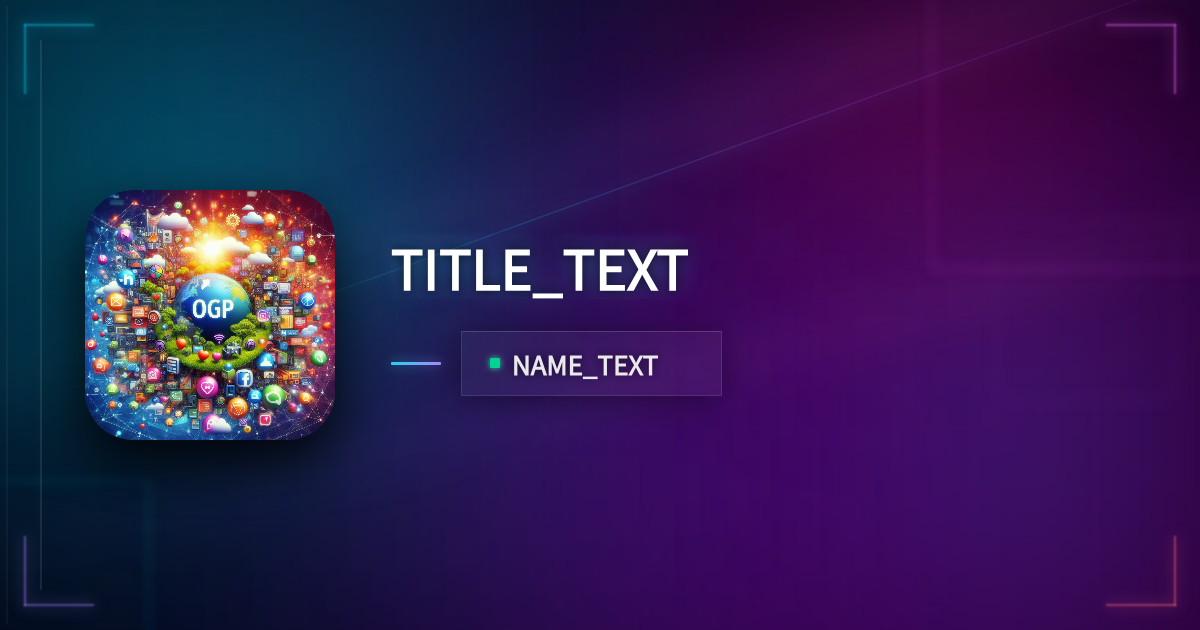
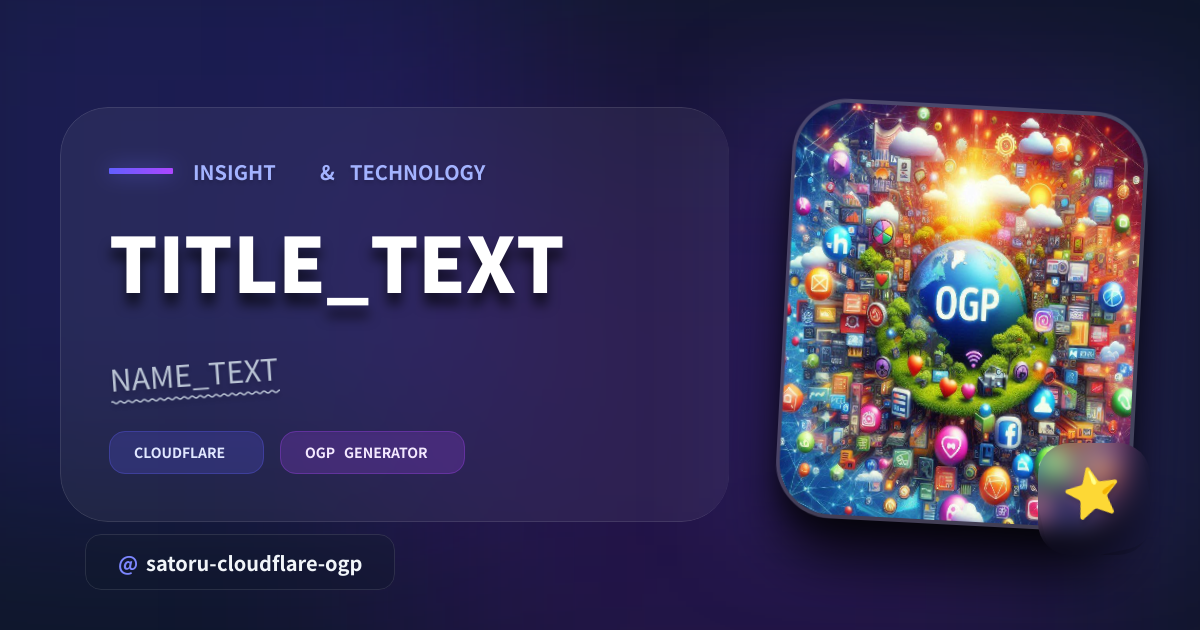
feat: implement Deno server for dynamic OGP image generation using satoru-render

diff --git a/src/main.tsx b/src/main.tsx
@@ -23,235 +23,89 @@ Deno.serve(async (request) => {
   }
 
   const html = toHtml(
-    <html className="bg-[#020010]">
-      <body className="w-full h-full flex items-center justify-center p-0 m-0 bg-[#020010]">
-        <div className="w-[1200px] h-[630px] flex relative bg-[#020010] text-white overflow-hidden font-['Noto_Sans_JP']">
+    <html className="m-0 p-0">
+      <head>
+        <link
+          href="https://fonts.googleapis.com/css2?family=Noto+Sans+JP:wght@100..900&display=swap"
+          rel="stylesheet"
+        />
+      </head>
+      <body className="m-0 p-0 font-sans">
+        <style>
+          {`
+          body {
+            font-family: 'Noto Sans JP', 'emoji';
+          }
+          `}
+        </style>
+        <div className="relative flex h-157.5 w-300 overflow-hidden bg-[#0f172a]">
+          {/* Background Decorative Elements with Glow */}
+          <div className="absolute -left-25 -top-25 flex size-150 rounded-full bg-indigo-600/20 blur-[100px]" />
+          <div className="absolute -bottom-37.5 right-25 flex size-175 rounded-full bg-purple-600/15 blur-[120px]" />
 
-          {/* ============================================================ */}
-          {/* LAYER 1: Deep Background Blur Orbs      */}
-          {/* ============================================================ */}
-          <div className="absolute -top-[200px] -left-[200px] w-[700px] h-[700px] rounded-full bg-cyan-500/30 blur-[200px]" />
-          <div className="absolute -bottom-[200px] -right-[150px] w-[800px] h-[800px] rounded-full bg-fuchsia-600/35 blur-[220px]" />
-          <div className="absolute top-[30%] left-[35%] w-[500px] h-[500px] rounded-full bg-violet-700/25 blur-[250px]" />
-
-          {/* ============================================================ */}
-          {/* LAYER 2: Mid-level Blur Shapes              */}
-          {/* ============================================================ */}
-          {/* Cyan glow bloom - left side */}
-          <div className="absolute top-[10%] left-[5%] w-[350px] h-[250px] rounded-full bg-cyan-400/20 blur-[100px]" />
-          {/* Rose glow bloom - top right */}
-          <div className="absolute -top-[40px] right-[10%] w-[300px] h-[300px] rounded-full bg-rose-500/18 blur-[120px]" />
-          {/* Indigo accent bloom - center bottom */}
-          <div className="absolute bottom-[5%] left-[30%] w-[400px] h-[200px] rounded-full bg-indigo-500/15 blur-[130px]" />
-          {/* Sky accent - right center */}
-          <div className="absolute top-[40%] right-[5%] w-[250px] h-[350px] rounded-full bg-sky-400/12 blur-[110px]" />
-
-          {/* ============================================================ */}
-          {/* LAYER 3: Blurred Light Streaks     */}
-          {/* ============================================================ */}
-          {/* Primary wide blurred streak */}
-          <div
-            className="absolute top-[15%] -left-[300px] w-[2000px] h-[60px] opacity-[0.08] blur-[30px]"
-            style={{
-              background: "linear-gradient(90deg, transparent, #22d3ee, #a78bfa, #e879f9, transparent)",
-              transform: "rotate(-20deg)",
-            }}
-          />
-          {/* Secondary thin blurred streak */}
-          <div
-            className="absolute top-[55%] -left-[200px] w-[1800px] h-[40px] opacity-[0.06] blur-[25px]"
-            style={{
-              background: "linear-gradient(90deg, transparent, #818cf8, #f472b6, transparent)",
-              transform: "rotate(-15deg)",
-            }}
-          />
-          {/* Accent sharp streak with blur halo */}
-          <div
-            className="absolute top-[25%] -left-[200px] w-[1800px] h-[2px] opacity-[0.15]"
-            style={{
-              background: "linear-gradient(90deg, transparent 10%, #22d3ee 40%, #a855f7 60%, transparent 90%)",
-              transform: "rotate(-20deg)",
-            }}
-          />
-          {/* Blur halo behind the sharp streak */}
-          <div
-            className="absolute top-[25%] -left-[200px] w-[1800px] h-[2px] opacity-[0.25] blur-[8px]"
-            style={{
-              background: "linear-gradient(90deg, transparent 10%, #22d3ee 40%, #a855f7 60%, transparent 90%)",
-              transform: "rotate(-20deg)",
-            }}
-          />
-
-          {/* ============================================================ */}
-          {/* LAYER 4: Blurred Ring Decorations            */}
-          {/* ============================================================ */}
-          {/* Large blurred ring - top right */}
-          <div className="absolute -top-[80px] -right-[80px] w-[350px] h-[350px] rounded-full border-[3px] border-fuchsia-400/20 blur-[6px]" />
-          <div className="absolute -top-[80px] -right-[80px] w-[350px] h-[350px] rounded-full border-[1px] border-fuchsia-400/10 blur-[15px]" />
-          {/* Small blurred ring - bottom left */}
-          <div className="absolute -bottom-[50px] -left-[50px] w-[200px] h-[200px] rounded-full border-[2px] border-cyan-400/20 blur-[5px]" />
-          <div className="absolute -bottom-[50px] -left-[50px] w-[200px] h-[200px] rounded-full border-[1px] border-cyan-400/15 blur-[12px]" />
-          {/* Medium blurred ring - center right */}
-          <div className="absolute top-[35%] right-[2%] w-[180px] h-[180px] rounded-full border-[2px] border-violet-400/15 blur-[8px]" />
-
-          {/* ============================================================ */}
-          {/* LAYER 5: Dot Grid with slight blur                          */}
-          {/* ============================================================ */}
-          <div
-            className="absolute inset-0 opacity-[0.05] blur-[0.5px]"
-            style={{
-              backgroundImage:
-                "radial-gradient(circle, #ffffff 1px, transparent 1px)",
-              backgroundSize: "36px 36px",
-            }}
-          />
-
-          {/* ============================================================ */}
-          {/* LAYER 6: Corner Accent                  */}
-          {/* ============================================================ */}
-          {/* Top-left */}
-          <div className="absolute top-[24px] left-[24px] w-[70px] h-[2px] bg-cyan-400/50 blur-[1px] shadow-[0_0_15px_rgba(34,211,238,0.6)]" />
-          <div className="absolute top-[24px] left-[24px] w-[2px] h-[70px] bg-cyan-400/50 blur-[1px] shadow-[0_0_15px_rgba(34,211,238,0.6)]" />
-          {/* Top-right */}
-          <div className="absolute top-[24px] right-[24px] w-[70px] h-[2px] bg-fuchsia-400/50 blur-[1px] shadow-[0_0_15px_rgba(232,121,249,0.6)]" />
-          <div className="absolute top-[24px] right-[24px] w-[2px] h-[70px] bg-fuchsia-400/50 blur-[1px] shadow-[0_0_15px_rgba(232,121,249,0.6)]" />
-          {/* Bottom-left */}
-          <div className="absolute bottom-[24px] left-[24px] w-[70px] h-[2px] bg-violet-400/50 blur-[1px] shadow-[0_0_15px_rgba(167,139,250,0.6)]" />
-          <div className="absolute bottom-[24px] left-[24px] w-[2px] h-[70px] bg-violet-400/50 blur-[1px] shadow-[0_0_15px_rgba(167,139,250,0.6)]" />
-          {/* Bottom-right */}
-          <div className="absolute bottom-[24px] right-[24px] w-[70px] h-[2px] bg-rose-400/50 blur-[1px] shadow-[0_0_15px_rgba(251,113,133,0.6)]" />
-          <div className="absolute bottom-[24px] right-[24px] w-[2px] h-[70px] bg-rose-400/50 blur-[1px] shadow-[0_0_15px_rgba(251,113,133,0.6)]" />
-
-          {/* ============================================================ */}
-          {/* LAYER 7: Frosted Glass Content Panel                        */}
-          {/* ============================================================ */}
-          <div className="absolute inset-[40px] rounded-[24px] bg-white/[0.03] border border-white/[0.06] z-[5]" />
-          {/* Inner glass panel blurred edge glow */}
-          <div className="absolute inset-[38px] rounded-[26px] border border-white/[0.04] blur-[3px] z-[4]" />
-
-          {/* ============================================================ */}
-          {/* MAIN CONTENT                                                 */}
-          {/* ============================================================ */}
-          <div className="flex flex-col justify-center w-full h-full px-[85px] py-20 z-10">
-            <div className="flex items-center gap-14">
-              {/* Image / Avatar Section */}
-              {image && (
-                <div className="shrink-0">
-                  <div className="relative">
-                    {/* Avatar mega blur glow (outermost) */}
-                    <div className="absolute -inset-[30px] rounded-full bg-cyan-500/15 blur-[50px]" />
-                    <div className="absolute -inset-[20px] rounded-full bg-fuchsia-500/12 blur-[40px]" />
-                    {/* Avatar gradient blur ring */}
-                    <div className="absolute -inset-[8px] rounded-[54px] bg-gradient-to-br from-cyan-400 via-violet-500 to-fuchsia-500 opacity-50 blur-[18px]" />
-                    {/* Avatar sharp gradient border */}
-                    <div className="absolute -inset-[3px] rounded-[50px] bg-gradient-to-br from-cyan-400 via-violet-500 to-fuchsia-500 opacity-80" />
-                    {/* Subtle blur haze on border */}
-                    <div className="absolute -inset-[3px] rounded-[50px] bg-gradient-to-br from-cyan-400 via-violet-500 to-fuchsia-500 opacity-30 blur-[4px]" />
-                    {/* Image */}
-                    <img
-                      className="relative rounded-[48px] shadow-[0_25px_60px_rgba(0,0,0,0.9)]"
-                      width={250}
-                      height={250}
-                      src={image}
-                      alt=""
-                    />
-                  </div>
+          {/* Main Content Area */}
+          <div className="z-10 flex size-full flex-row items-center justify-between p-15">
+            {/* Left Content Card with Backdrop Filter (Glassmorphism) */}
+            <div className="flex w-[62%] flex-col rounded-[48px] border border-white/10 bg-white/5 p-12 shadow-2xl backdrop-blur-2xl">
+              <div className="mb-8 flex items-center">
+                <div className="mr-5 h-1.5 w-16 rounded-full bg-linear-to-r from-indigo-500 to-purple-500 shadow-[0_0_20px_rgba(99,102,241,0.6)]" />
+                <div className="flex text-xl font-bold uppercase tracking-[0.25em] text-indigo-300 drop-shadow-md">
+                  Insight & Technology
                 </div>
-              )}
+              </div>
 
-              {/* Text Content Section */}
-              <div className="flex flex-col gap-8 flex-1">
-                {/* Title with blur text glow */}
-                <div className="relative">
-                  {/* Blurred duplicate for glow effect */}
-                  <h1
-                    className="absolute top-0 left-0 text-[54px] font-black leading-[1.2] line-clamp-3 overflow-hidden text-cyan-300/20 blur-[12px]"
-                    aria-hidden="true"
-                  >
-                    {title}
-                  </h1>
-                  {/* Actual title */}
-                  <h1
-                    className="relative text-[54px] font-black leading-[1.2] line-clamp-3 overflow-hidden"
-                    style={{
-                      textShadow:
-                        "0 0 30px rgba(6,182,212,0.25), 0 0 60px rgba(139,92,246,0.12), 0 6px 12px rgba(0,0,0,0.8)",
-                    }}
-                  >
-                    {title}
-                  </h1>
+              {/* Title with strong Drop Shadow */}
+              <div className="mb-8 flex wrap-break-word text-[76px] font-black leading-[1.1] text-white drop-shadow-[0_12px_12px_rgba(0,0,0,0.6)]">
+                {title}
+              </div>
+
+              {/* Subtitle with subtle Drop Shadow */}
+              <div className="flex -rotate-4 underline decoration-wavy underline-offset-8 text-[30px] font-medium leading-relaxed text-slate-300 opacity-90 drop-shadow-lg">
+                {name}
+              </div>
+
+              <div className="mt-12 flex items-center gap-4">
+                <div className="flex rounded-2xl border border-indigo-500/30 bg-indigo-500/20 px-6 py-2.5 text-sm font-bold uppercase tracking-widest text-indigo-100 shadow-inner">
+                  Cloudflare
                 </div>
+                <div className="flex rounded-2xl border border-purple-500/30 bg-purple-500/20 px-6 py-2.5 text-sm font-bold uppercase tracking-widest text-purple-100 shadow-inner">
+                  OGP Generator
+                </div>
+              </div>
+            </div>
 
-                {/* Author Badge with blur accents */}
-                <div className="flex items-center gap-5 w-fit">
-                  {/* Blurred accent line */}
-                  <div className="relative">
-                    <div
-                      className="w-[50px] h-[3px] rounded-full blur-[6px] opacity-60"
-                      style={{
-                        background: "linear-gradient(90deg, #22d3ee, #a78bfa)",
-                      }}
-                    />
-                    <div
-                      className="absolute top-0 left-0 w-[50px] h-[3px] rounded-full"
-                      style={{
-                        background: "linear-gradient(90deg, #22d3ee, #a78bfa)",
-                      }}
-                    />
-                  </div>
-                  {/* Frosted name chip */}
-                  <div className="relative">
-                    {/* Chip blur glow */}
-                    <div className="absolute -inset-[6px] rounded-full bg-violet-500/8 blur-[12px]" />
-                    <div className="flex items-center gap-3 px-7 py-3 rounded-full border border-white/[0.1] bg-white/[0.04] shadow-[0_4px_30px_rgba(0,0,0,0.4),inset_0_1px_0_rgba(255,255,255,0.06)]">
-                      {/* Status dot with multi-layer blur glow */}
-                      <div className="relative">
-                        <div className="absolute -inset-[6px] rounded-full bg-emerald-400/40 blur-[8px]" />
-                        <div className="w-[10px] h-[10px] rounded-full bg-emerald-400 shadow-[0_0_6px_rgba(52,211,153,1)]" />
-                      </div>
-                      <span
-                        className="text-[26px] font-bold tracking-[0.15em] text-white/90 uppercase"
-                        style={{
-                          textShadow: "0 2px 10px rgba(0,0,0,0.6)",
-                        }}
-                      >
-                        {name}
-                      </span>
-                    </div>
-                  </div>
+            {/* Right Image Container with Drop Shadow and Layering */}
+            <div className="relative flex w-[33%] items-center justify-center">
+              {/* Outer Glow Ring */}
+              <div className="absolute flex size-115 rounded-full bg-indigo-500/10 blur-[50px]" />
+
+              {/* Image Frame with multiple shadows */}
+              <div className="flex size-105 rotate-3 overflow-hidden rounded-[56px] border-4 border-white/20 shadow-[0_35px_60px_-15px_rgba(0,0,0,0.9)] drop-shadow-[0_20px_20px_rgba(0,0,0,0.5)]">
+                {image && (
+                  <img
+                    className="size-full scale-110 object-cover"
+                    src={image}
+                    alt=""
+                  />
+                )}
+              </div>
+
+              {/* Decorative Floating Icon with Glass effect */}
+              <div className="absolute -bottom-7.5 -right-2.5 flex size-28 -rotate-12 items-center justify-center rounded-4xl shadow-2xl backdrop-blur-md">
+                <div className="flex text-5xl font-bold text-white drop-shadow-lg">
+                  ⭐
                 </div>
               </div>
             </div>
           </div>
 
-          {/* ============================================================ */}
-          {/* Bottom Gradient Bar with heavy blur glow                     */}
-          {/* ============================================================ */}
-          <div
-            className="absolute bottom-0 left-0 right-0 h-[3px]"
-            style={{
-              background: "linear-gradient(90deg, #06b6d4, #8b5cf6, #d946ef, #f43f5e)",
-            }}
-          />
-          {/* Blur layer 1 */}
-          <div
-            className="absolute bottom-0 left-0 right-0 h-[30px] opacity-50 blur-[15px]"
-            style={{
-              background: "linear-gradient(90deg, #06b6d4, #8b5cf6, #d946ef, #f43f5e)",
-            }}
-          />
-          {/* Blur layer 2 - wider spread */}
-          <div
-            className="absolute -bottom-[10px] left-0 right-0 h-[50px] opacity-20 blur-[35px]"
-            style={{
-              background: "linear-gradient(90deg, #06b6d4, #8b5cf6, #d946ef, #f43f5e)",
-            }}
-          />
-
-          {/* ============================================================ */}
-          {/* Outer Frame */}
-          {/* ============================================================ */}
-          <div className="absolute inset-[6px] border border-white/[0.04] rounded-[20px] pointer-events-none" />
+          {/* Bottom Branding with Backdrop Filter */}
+          <div className="absolute bottom-10 left-21.25 z-20 flex items-center">
+            <div className="flex rounded-2xl border border-white/10 bg-slate-900/40 px-8 py-3 text-xl font-bold text-slate-100 shadow-xl backdrop-blur-xl">
+              <span className="mr-2 flex text-indigo-400">@</span>
+              satoru-cloudflare-ogp
+            </div>
+          </div>
         </div>
       </body>
     </html>,
